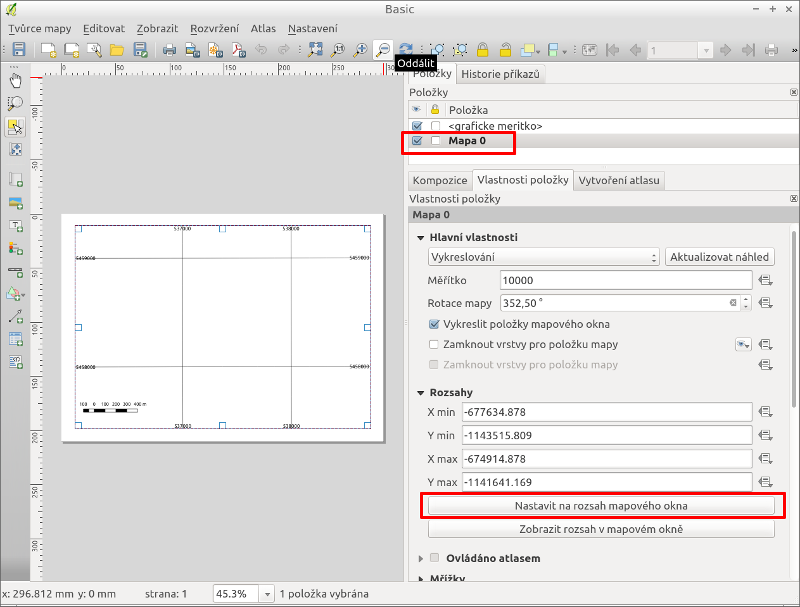
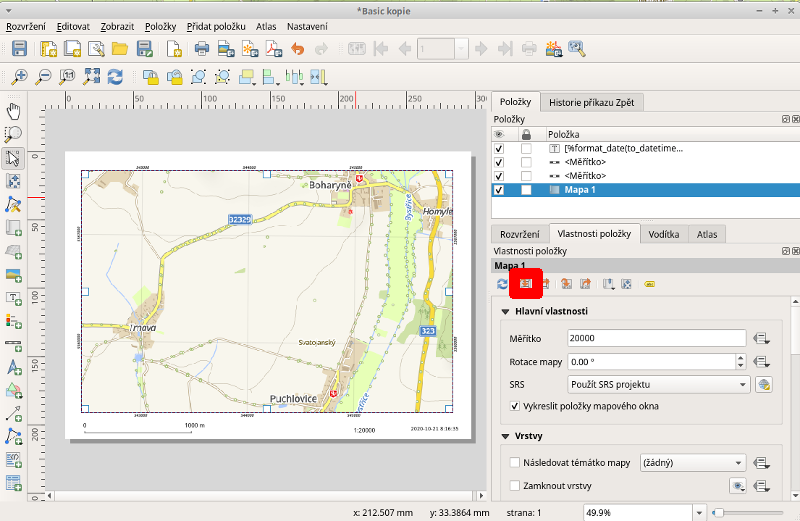
Dokumentace

diff --git a/doc/index.html b/doc/index.html
@@ -331,12 +331,17 @@
         <p>Vyexportované soubory jsou uloženy do adresáře projektu do složky sektory/gpx. Cesta k projektu je zobrazena v <a href="settings.html">nastavení</a>.</p>
 
         <h2>Tisk</h2>
-        <p>Mapu pro tisk je možno vytvořit ve tvůrci map. Ten je k dispozici přes nabídku Projekt/Tvorba map/Basic.</p>
-        <p><img src="images/map.png"/></p>
-        <p>Po otevření tvůrce mapy je obvykle mapa prázdná. Je nutné nejdříve vybrat v seznamu prvků mapu a následně se pomocí tlačítka přiblížit na rozsah aktuálně prohlížené mapy.</p>
+        <p>Mapu pro tisk je možno vytvořit ve tvůrci map. Ten je k dispozici přes tlačíko v hlavní nástrojové listě. <img src="images/print.png"/></p>
+        <p>Po spuštění se objeví dialogové okno kde je již kompozice připravena. Jmenuje se Basic. Je vhodné si udělat duplikát (kopii) této kompozice.
+          Kompozici je možno snadno poškodit a pokud by se poškodila kompozice Basic přestal by fungovat automatizovaný export map v průvodci.
+        </p>
+        <p><img src="images/print_duplicate.png"/></p>
+        <p>Po otevření tvůrce mapy je obvykle mapa prázdná, případně posunutá mimo oblast. Je nutné nejdříve vybrat v seznamu prvků mapu a následně se pomocí tlačítka přiblížit na rozsah aktuálně prohlížené mapy.</p>
         <p><img src="images/map2.png"/></p>
-        <p>Případně je možné ještě následně po zobrazení mapy, upravit měřítko</p>
+        <p>Mapu je pak možné přesouvat pomocí tlačítka na levé nástrojové liště.</p>
         <p><img src="images/map3.png"/></p>
+        <p>Případně je možné ještě následně upravit měřítko</p>
+        <p><img src="images/map4.png"/></p>
         <p>Mapu je možné exportovat do PDF pro tisk pomocí tlačítka <img src="images/pdf.png"/>.</p>
 
         <h2>Nalezení osoby</h2>
